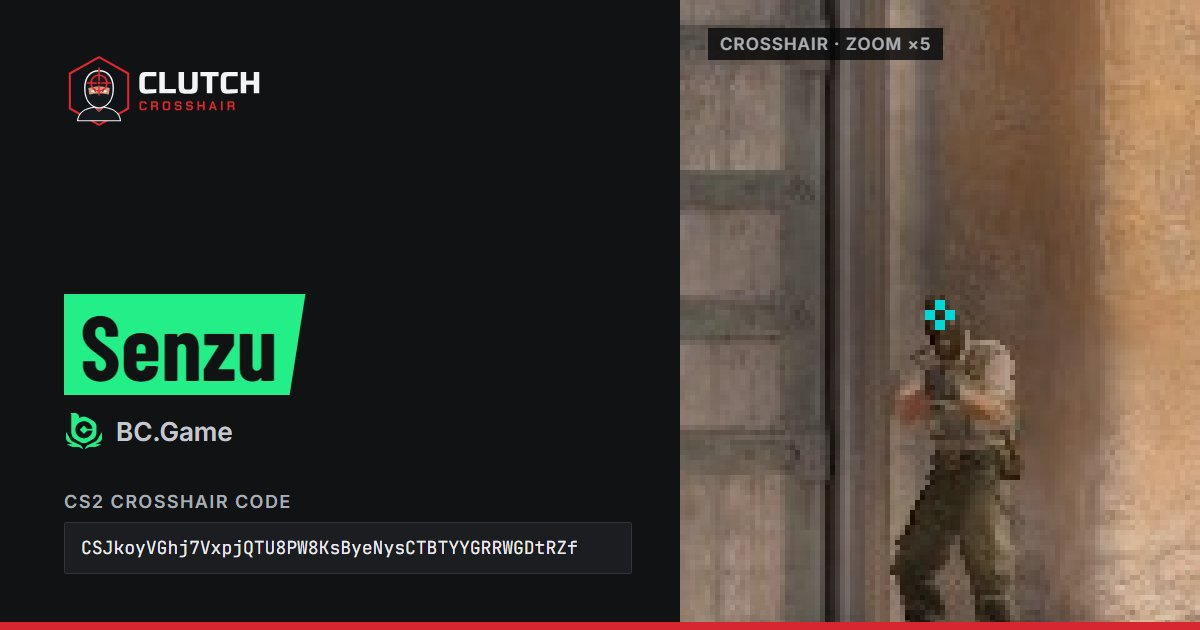
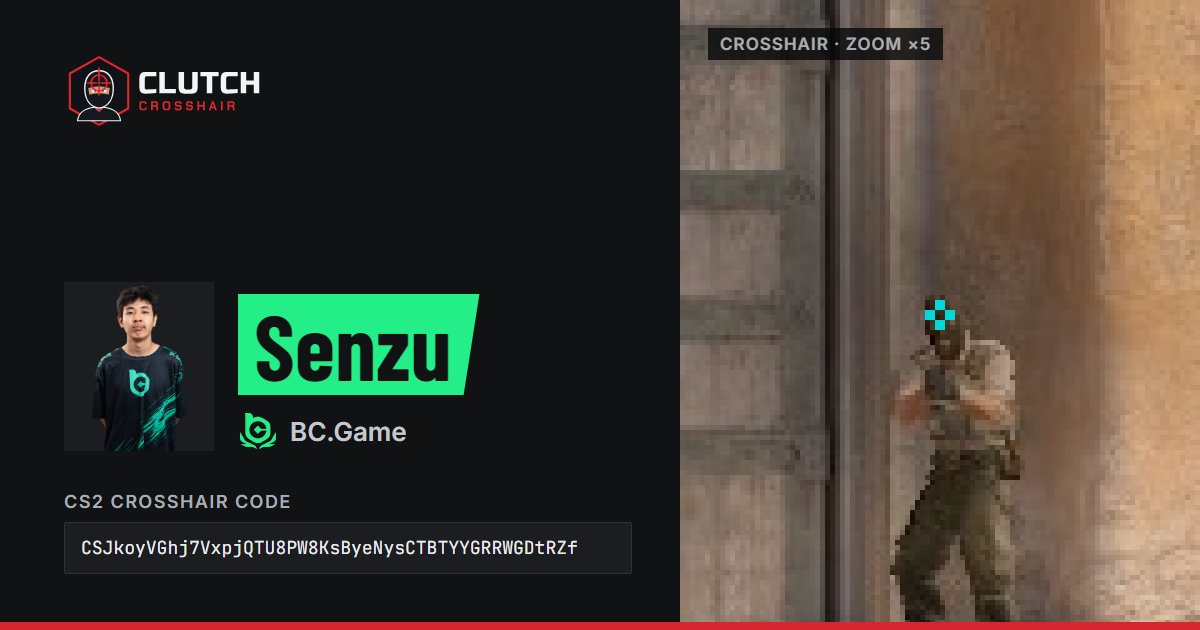
Photo : Senzu

Changed region(s): [[0.0308, 0.4524, 0.4008, 0.7238]]

diff --git a/ru/players/senzu.html b/ru/players/senzu.html
@@ -38,21 +38,21 @@
     <meta property="og:title" content="Прицел Senzu в CS2: код">
     <meta property="og:description" content="Скопируйте код прицела Senzu (BC.Game) для CS2 в один клик: предпросмотр в реальном размере, консольные команды и настройки. Из матча от 22/10/2026.">
     <meta property="og:url" content="https://clutchcrosshair.com/ru/players/senzu">
-    <meta property="og:image" content="https://clutchcrosshair.com/og/senzu.jpg?v=4a5f02dcf4">
+    <meta property="og:image" content="https://clutchcrosshair.com/og/senzu.jpg?v=98729ccd2f">
     <meta property="og:image:width" content="1200">
     <meta property="og:image:height" content="630">
     <meta property="og:image:alt" content="Прицел Senzu в CS2: превью и код">
     <meta name="twitter:card" content="summary_large_image">
     <meta name="twitter:title" content="Прицел Senzu в CS2: код">
     <meta name="twitter:description" content="Скопируйте код прицела Senzu (BC.Game) для CS2 в один клик: предпросмотр в реальном размере, консольные команды и настройки. Из матча от 22/10/2026.">
-    <meta name="twitter:image" content="https://clutchcrosshair.com/og/senzu.jpg?v=4a5f02dcf4">
+    <meta name="twitter:image" content="https://clutchcrosshair.com/og/senzu.jpg?v=98729ccd2f">
     <link rel="preload" href="../../fonts/inter-latin.woff2" as="font" type="font/woff2" crossorigin>
     <link rel="preload" href="../../fonts/barlow-condensed-700-latin.woff2" as="font" type="font/woff2" crossorigin>
     <link rel="stylesheet" href="../../style.min.css?v=681f2d2464">
     <link rel="modulepreload" href="../../crosshair.min.js?v=da13dcace5">
     <link rel="modulepreload" href="../../lib/csgo-sharecode.js">
     <link rel="preload" href="../../preview-bg.webp?v=282ecb7043" as="image" type="image/webp">
-    <script type="application/ld+json">{"@context":"https://schema.org","@graph":[{"@type":"WebPage","@id":"https://clutchcrosshair.com/ru/players/senzu","url":"https://clutchcrosshair.com/ru/players/senzu","name":"Код прицела Senzu в CS2","inLanguage":"ru","isPartOf":{"@id":"https://clutchcrosshair.com/#website"},"about":{"@id":"https://clutchcrosshair.com/ru/players/senzu#person"},"breadcrumb":{"@id":"https://clutchcrosshair.com/ru/players/senzu#breadcrumb"},"dateModified":"2026-10-22"},{"@type":"BreadcrumbList","@id":"https://clutchcrosshair.com/ru/players/senzu#breadcrumb","itemListElement":[{"@type":"ListItem","position":1,"name":"Главная","item":"https://clutchcrosshair.com/ru/"},{"@type":"ListItem","position":2,"name":"Прицел Senzu","item":"https://clutchcrosshair.com/ru/players/senzu"}]},{"@type":"Person","@id":"https://clutchcrosshair.com/ru/players/senzu#person","name":"Senzu","description":"Senzu — профессиональный игрок CS2 в команде BC.Game. Код прицела взят из демо официального матча.","url":"https://clutchcrosshair.com/ru/players/senzu","memberOf":{"@type":"SportsTeam","name":"BC.Game","sport":"Counter-Strike 2"},"sameAs":["https://steamcommunity.com/profiles/76561198920720017"]},{"@type":"FAQPage","@id":"https://clutchcrosshair.com/ru/players/senzu#faq","mainEntity":[{"@type":"Question","name":"Какой код прицела у Senzu в CS2?","acceptedAnswer":{"@type":"Answer","text":"Код прицела Senzu в CS2: CSJkoyVGhj7VxpjQTU8PW8KsByeNysCTBTYYGRRWGDtRZf. Он взят из демо официального матча от 22/10/2026."}},{"@type":"Question","name":"Какие настройки прицела у Senzu?","acceptedAnswer":{"@type":"Answer","text":"Senzu играет с прицелом: очень короткий, голубой, статичный — длина 2 px, толщина 2 px, зазор 1, без обводки и без точки в центре; настроен для высоты экрана 960p."}},{"@type":"Question","name":"У каких про-игроков такой же прицел, как у Senzu?","acceptedAnswer":{"@type":"Answer","text":"У asap точно такой же код прицела CS2, как у Senzu."}}]}]}</script>
+    <script type="application/ld+json">{"@context":"https://schema.org","@graph":[{"@type":"WebPage","@id":"https://clutchcrosshair.com/ru/players/senzu","url":"https://clutchcrosshair.com/ru/players/senzu","name":"Код прицела Senzu в CS2","inLanguage":"ru","isPartOf":{"@id":"https://clutchcrosshair.com/#website"},"about":{"@id":"https://clutchcrosshair.com/ru/players/senzu#person"},"breadcrumb":{"@id":"https://clutchcrosshair.com/ru/players/senzu#breadcrumb"},"dateModified":"2026-10-22","primaryImageOfPage":{"@type":"ImageObject","url":"https://clutchcrosshair.com/photos/senzu.webp"}},{"@type":"BreadcrumbList","@id":"https://clutchcrosshair.com/ru/players/senzu#breadcrumb","itemListElement":[{"@type":"ListItem","position":1,"name":"Главная","item":"https://clutchcrosshair.com/ru/"},{"@type":"ListItem","position":2,"name":"Прицел Senzu","item":"https://clutchcrosshair.com/ru/players/senzu"}]},{"@type":"Person","@id":"https://clutchcrosshair.com/ru/players/senzu#person","name":"Senzu","description":"Senzu — профессиональный игрок CS2 в команде BC.Game. Код прицела взят из демо официального матча.","url":"https://clutchcrosshair.com/ru/players/senzu","memberOf":{"@type":"SportsTeam","name":"BC.Game","sport":"Counter-Strike 2"},"image":"https://clutchcrosshair.com/photos/senzu.webp","sameAs":["https://steamcommunity.com/profiles/76561198920720017"]},{"@type":"FAQPage","@id":"https://clutchcrosshair.com/ru/players/senzu#faq","mainEntity":[{"@type":"Question","name":"Какой код прицела у Senzu в CS2?","acceptedAnswer":{"@type":"Answer","text":"Код прицела Senzu в CS2: CSJkoyVGhj7VxpjQTU8PW8KsByeNysCTBTYYGRRWGDtRZf. Он взят из демо официального матча от 22/10/2026."}},{"@type":"Question","name":"Какие настройки прицела у Senzu?","acceptedAnswer":{"@type":"Answer","text":"Senzu играет с прицелом: очень короткий, голубой, статичный — длина 2 px, толщина 2 px, зазор 1, без обводки и без точки в центре; настроен для высоты экрана 960p."}},{"@type":"Question","name":"У каких про-игроков такой же прицел, как у Senzu?","acceptedAnswer":{"@type":"Answer","text":"У asap точно такой же код прицела CS2, как у Senzu."}}]}]}</script>
     <script src="../../consent.min.js?v=fdcf5763f3" data-legal="../legal" defer></script>
     <script src="../../lang-banner.min.js?v=aec40a5320" defer></script>
 </head>
@@ -92,7 +92,7 @@
         <nav class="breadcrumb" aria-label="Навигационная цепочка"><a href="../" class="crumb-home"><svg class="crumb-icon" viewBox="0 0 24 24" aria-hidden="true"><path d="M12 3 2 11.5h3V21h5.5v-6h3v6H19v-9.5h3L12 3Z"/></svg>Главная</a> › <span>Senzu</span></nav>
 
         <div class="player-head">
-            <div class="player-photo">SE</div>
+            <img class="player-photo" src="../../photos/md/senzu.webp?v=4236bbfd59" alt="Senzu, BC.Game" width="120" height="134" fetchpriority="high" decoding="async">
             <div>
                 <h1>Прицел Senzu в CS2</h1>
                 <p class="player-team"><img class="player-team-logo" src="../../logos/sm/bcgame.webp?v=652558305a" alt="" width="20" height="20">BC.Game</p>

diff --git a/es/players/senzu.html b/es/players/senzu.html
@@ -38,21 +38,21 @@
     <meta property="og:title" content="Código de crosshair de Senzu en CS2">
     <meta property="og:description" content="Copia en un clic el código de crosshair de CS2 de Senzu (BC.Game): vista previa a tamaño real, comandos y ajustes. Partido del 22/10/2026.">
     <meta property="og:url" content="https://clutchcrosshair.com/es/players/senzu">
-    <meta property="og:image" content="https://clutchcrosshair.com/og/senzu.jpg?v=4a5f02dcf4">
+    <meta property="og:image" content="https://clutchcrosshair.com/og/senzu.jpg?v=98729ccd2f">
     <meta property="og:image:width" content="1200">
     <meta property="og:image:height" content="630">
     <meta property="og:image:alt" content="Crosshair de Senzu en CS2: vista previa y código">
     <meta name="twitter:card" content="summary_large_image">
     <meta name="twitter:title" content="Código de crosshair de Senzu en CS2">
     <meta name="twitter:description" content="Copia en un clic el código de crosshair de CS2 de Senzu (BC.Game): vista previa a tamaño real, comandos y ajustes. Partido del 22/10/2026.">
-    <meta name="twitter:image" content="https://clutchcrosshair.com/og/senzu.jpg?v=4a5f02dcf4">
+    <meta name="twitter:image" content="https://clutchcrosshair.com/og/senzu.jpg?v=98729ccd2f">
     <link rel="preload" href="../../fonts/inter-latin.woff2" as="font" type="font/woff2" crossorigin>
     <link rel="preload" href="../../fonts/barlow-condensed-700-latin.woff2" as="font" type="font/woff2" crossorigin>
     <link rel="stylesheet" href="../../style.min.css?v=681f2d2464">
     <link rel="modulepreload" href="../../crosshair.min.js?v=da13dcace5">
     <link rel="modulepreload" href="../../lib/csgo-sharecode.js">
     <link rel="preload" href="../../preview-bg.webp?v=282ecb7043" as="image" type="image/webp">
-    <script type="application/ld+json">{"@context":"https://schema.org","@graph":[{"@type":"WebPage","@id":"https://clutchcrosshair.com/es/players/senzu","url":"https://clutchcrosshair.com/es/players/senzu","name":"Código de crosshair de Senzu en CS2","inLanguage":"es","isPartOf":{"@id":"https://clutchcrosshair.com/#website"},"about":{"@id":"https://clutchcrosshair.com/es/players/senzu#person"},"breadcrumb":{"@id":"https://clutchcrosshair.com/es/players/senzu#breadcrumb"},"dateModified":"2026-10-22"},{"@type":"BreadcrumbList","@id":"https://clutchcrosshair.com/es/players/senzu#breadcrumb","itemListElement":[{"@type":"ListItem","position":1,"name":"Inicio","item":"https://clutchcrosshair.com/es/"},{"@type":"ListItem","position":2,"name":"Crosshair de Senzu","item":"https://clutchcrosshair.com/es/players/senzu"}]},{"@type":"Person","@id":"https://clutchcrosshair.com/es/players/senzu#person","name":"Senzu","description":"Senzu es un jugador profesional de CS2 en BC.Game. Código de crosshair leído de la demo de un partido oficial.","url":"https://clutchcrosshair.com/es/players/senzu","memberOf":{"@type":"SportsTeam","name":"BC.Game","sport":"Counter-Strike 2"},"sameAs":["https://steamcommunity.com/profiles/76561198920720017"]},{"@type":"FAQPage","@id":"https://clutchcrosshair.com/es/players/senzu#faq","mainEntity":[{"@type":"Question","name":"¿Cuál es el código de crosshair de Senzu en CS2?","acceptedAnswer":{"@type":"Answer","text":"El código de crosshair de CS2 de Senzu es CSJkoyVGhj7VxpjQTU8PW8KsByeNysCTBTYYGRRWGDtRZf. Se leyó de la demo de un partido oficial el 22/10/2026."}},{"@type":"Question","name":"¿Qué ajustes de crosshair usa Senzu?","acceptedAnswer":{"@type":"Answer","text":"Senzu usa un crosshair cian muy corto estático: 2 px de largo, 2 px de grosor, una separación de 1, sin contorno y sin punto central, configurado para una altura de pantalla de 960p."}},{"@type":"Question","name":"¿Qué pros usan el mismo crosshair que Senzu?","acceptedAnswer":{"@type":"Answer","text":"asap usa exactamente el mismo código de crosshair de CS2 que Senzu."}}]}]}</script>
+    <script type="application/ld+json">{"@context":"https://schema.org","@graph":[{"@type":"WebPage","@id":"https://clutchcrosshair.com/es/players/senzu","url":"https://clutchcrosshair.com/es/players/senzu","name":"Código de crosshair de Senzu en CS2","inLanguage":"es","isPartOf":{"@id":"https://clutchcrosshair.com/#website"},"about":{"@id":"https://clutchcrosshair.com/es/players/senzu#person"},"breadcrumb":{"@id":"https://clutchcrosshair.com/es/players/senzu#breadcrumb"},"dateModified":"2026-10-22","primaryImageOfPage":{"@type":"ImageObject","url":"https://clutchcrosshair.com/photos/senzu.webp"}},{"@type":"BreadcrumbList","@id":"https://clutchcrosshair.com/es/players/senzu#breadcrumb","itemListElement":[{"@type":"ListItem","position":1,"name":"Inicio","item":"https://clutchcrosshair.com/es/"},{"@type":"ListItem","position":2,"name":"Crosshair de Senzu","item":"https://clutchcrosshair.com/es/players/senzu"}]},{"@type":"Person","@id":"https://clutchcrosshair.com/es/players/senzu#person","name":"Senzu","description":"Senzu es un jugador profesional de CS2 en BC.Game. Código de crosshair leído de la demo de un partido oficial.","url":"https://clutchcrosshair.com/es/players/senzu","memberOf":{"@type":"SportsTeam","name":"BC.Game","sport":"Counter-Strike 2"},"image":"https://clutchcrosshair.com/photos/senzu.webp","sameAs":["https://steamcommunity.com/profiles/76561198920720017"]},{"@type":"FAQPage","@id":"https://clutchcrosshair.com/es/players/senzu#faq","mainEntity":[{"@type":"Question","name":"¿Cuál es el código de crosshair de Senzu en CS2?","acceptedAnswer":{"@type":"Answer","text":"El código de crosshair de CS2 de Senzu es CSJkoyVGhj7VxpjQTU8PW8KsByeNysCTBTYYGRRWGDtRZf. Se leyó de la demo de un partido oficial el 22/10/2026."}},{"@type":"Question","name":"¿Qué ajustes de crosshair usa Senzu?","acceptedAnswer":{"@type":"Answer","text":"Senzu usa un crosshair cian muy corto estático: 2 px de largo, 2 px de grosor, una separación de 1, sin contorno y sin punto central, configurado para una altura de pantalla de 960p."}},{"@type":"Question","name":"¿Qué pros usan el mismo crosshair que Senzu?","acceptedAnswer":{"@type":"Answer","text":"asap usa exactamente el mismo código de crosshair de CS2 que Senzu."}}]}]}</script>
     <script src="../../consent.min.js?v=fdcf5763f3" data-legal="../legal" defer></script>
     <script src="../../lang-banner.min.js?v=aec40a5320" defer></script>
 </head>
@@ -92,7 +92,7 @@
         <nav class="breadcrumb" aria-label="Ruta de navegación"><a href="../" class="crumb-home"><svg class="crumb-icon" viewBox="0 0 24 24" aria-hidden="true"><path d="M12 3 2 11.5h3V21h5.5v-6h3v6H19v-9.5h3L12 3Z"/></svg>Inicio</a> › <span>Senzu</span></nav>
 
         <div class="player-head">
-            <div class="player-photo">SE</div>
+            <img class="player-photo" src="../../photos/md/senzu.webp?v=4236bbfd59" alt="Senzu, BC.Game" width="120" height="134" fetchpriority="high" decoding="async">
             <div>
                 <h1>Crosshair de Senzu en CS2</h1>
                 <p class="player-team"><img class="player-team-logo" src="../../logos/sm/bcgame.webp?v=652558305a" alt="" width="20" height="20">BC.Game</p>

diff --git a/tr/players/senzu.html b/tr/players/senzu.html
@@ -38,21 +38,21 @@
     <meta property="og:title" content="Senzu CS2 Crosshair Kodu">
     <meta property="og:description" content="Senzu (BC.Game) CS2 crosshair kodunu tek tıkla kopyala: gerçek boyutlu önizleme, konsol komutları ve ayarlar. 22/10/2026 tarihli maçtan.">
     <meta property="og:url" content="https://clutchcrosshair.com/tr/players/senzu">
-    <meta property="og:image" content="https://clutchcrosshair.com/og/senzu.jpg?v=4a5f02dcf4">
+    <meta property="og:image" content="https://clutchcrosshair.com/og/senzu.jpg?v=98729ccd2f">
     <meta property="og:image:width" content="1200">
     <meta property="og:image:height" content="630">
     <meta property="og:image:alt" content="Senzu CS2 crosshair: önizleme ve kod">
     <meta name="twitter:card" content="summary_large_image">
     <meta name="twitter:title" content="Senzu CS2 Crosshair Kodu">
     <meta name="twitter:description" content="Senzu (BC.Game) CS2 crosshair kodunu tek tıkla kopyala: gerçek boyutlu önizleme, konsol komutları ve ayarlar. 22/10/2026 tarihli maçtan.">
-    <meta name="twitter:image" content="https://clutchcrosshair.com/og/senzu.jpg?v=4a5f02dcf4">
+    <meta name="twitter:image" content="https://clutchcrosshair.com/og/senzu.jpg?v=98729ccd2f">
     <link rel="preload" href="../../fonts/inter-latin.woff2" as="font" type="font/woff2" crossorigin>
     <link rel="preload" href="../../fonts/barlow-condensed-700-latin.woff2" as="font" type="font/woff2" crossorigin>
     <link rel="stylesheet" href="../../style.min.css?v=681f2d2464">
     <link rel="modulepreload" href="../../crosshair.min.js?v=da13dcace5">
     <link rel="modulepreload" href="../../lib/csgo-sharecode.js">
     <link rel="preload" href="../../preview-bg.webp?v=282ecb7043" as="image" type="image/webp">
-    <script type="application/ld+json">{"@context":"https://schema.org","@graph":[{"@type":"WebPage","@id":"https://clutchcrosshair.com/tr/players/senzu","url":"https://clutchcrosshair.com/tr/players/senzu","name":"Senzu CS2 Crosshair Kodu","inLanguage":"tr","isPartOf":{"@id":"https://clutchcrosshair.com/#website"},"about":{"@id":"https://clutchcrosshair.com/tr/players/senzu#person"},"breadcrumb":{"@id":"https://clutchcrosshair.com/tr/players/senzu#breadcrumb"},"dateModified":"2026-10-22"},{"@type":"BreadcrumbList","@id":"https://clutchcrosshair.com/tr/players/senzu#breadcrumb","itemListElement":[{"@type":"ListItem","position":1,"name":"Ana sayfa","item":"https://clutchcrosshair.com/tr/"},{"@type":"ListItem","position":2,"name":"Senzu crosshair","item":"https://clutchcrosshair.com/tr/players/senzu"}]},{"@type":"Person","@id":"https://clutchcrosshair.com/tr/players/senzu#person","name":"Senzu","description":"Senzu, BC.Game takımında oynayan profesyonel bir CS2 oyuncusu. CS2 crosshair kodu resmi bir maç demosundan alındı.","url":"https://clutchcrosshair.com/tr/players/senzu","memberOf":{"@type":"SportsTeam","name":"BC.Game","sport":"Counter-Strike 2"},"sameAs":["https://steamcommunity.com/profiles/76561198920720017"]},{"@type":"FAQPage","@id":"https://clutchcrosshair.com/tr/players/senzu#faq","mainEntity":[{"@type":"Question","name":"Senzu CS2 crosshair kodu nedir?","acceptedAnswer":{"@type":"Answer","text":"Senzu adlı oyuncunun CS2 crosshair kodu: CSJkoyVGhj7VxpjQTU8PW8KsByeNysCTBTYYGRRWGDtRZf. 22/10/2026 tarihli resmi bir maç demosundan alındı."}},{"@type":"Question","name":"Senzu hangi crosshair ayarlarını kullanıyor?","acceptedAnswer":{"@type":"Answer","text":"Senzu, çok kısa camgöbeği sabit bir crosshair kullanıyor: 2 px uzunluk, 2 px kalınlık, 1 boşluk, dış çizgi yok ve orta nokta yok; 960p ekran yüksekliğine göre ayarlanmış."}},{"@type":"Question","name":"Hangi prolar Senzu ile aynı crosshair'ı kullanıyor?","acceptedAnswer":{"@type":"Answer","text":"asap, Senzu ile birebir aynı CS2 crosshair kodunu kullanıyor."}}]}]}</script>
+    <script type="application/ld+json">{"@context":"https://schema.org","@graph":[{"@type":"WebPage","@id":"https://clutchcrosshair.com/tr/players/senzu","url":"https://clutchcrosshair.com/tr/players/senzu","name":"Senzu CS2 Crosshair Kodu","inLanguage":"tr","isPartOf":{"@id":"https://clutchcrosshair.com/#website"},"about":{"@id":"https://clutchcrosshair.com/tr/players/senzu#person"},"breadcrumb":{"@id":"https://clutchcrosshair.com/tr/players/senzu#breadcrumb"},"dateModified":"2026-10-22","primaryImageOfPage":{"@type":"ImageObject","url":"https://clutchcrosshair.com/photos/senzu.webp"}},{"@type":"BreadcrumbList","@id":"https://clutchcrosshair.com/tr/players/senzu#breadcrumb","itemListElement":[{"@type":"ListItem","position":1,"name":"Ana sayfa","item":"https://clutchcrosshair.com/tr/"},{"@type":"ListItem","position":2,"name":"Senzu crosshair","item":"https://clutchcrosshair.com/tr/players/senzu"}]},{"@type":"Person","@id":"https://clutchcrosshair.com/tr/players/senzu#person","name":"Senzu","description":"Senzu, BC.Game takımında oynayan profesyonel bir CS2 oyuncusu. CS2 crosshair kodu resmi bir maç demosundan alındı.","url":"https://clutchcrosshair.com/tr/players/senzu","memberOf":{"@type":"SportsTeam","name":"BC.Game","sport":"Counter-Strike 2"},"image":"https://clutchcrosshair.com/photos/senzu.webp","sameAs":["https://steamcommunity.com/profiles/76561198920720017"]},{"@type":"FAQPage","@id":"https://clutchcrosshair.com/tr/players/senzu#faq","mainEntity":[{"@type":"Question","name":"Senzu CS2 crosshair kodu nedir?","acceptedAnswer":{"@type":"Answer","text":"Senzu adlı oyuncunun CS2 crosshair kodu: CSJkoyVGhj7VxpjQTU8PW8KsByeNysCTBTYYGRRWGDtRZf. 22/10/2026 tarihli resmi bir maç demosundan alındı."}},{"@type":"Question","name":"Senzu hangi crosshair ayarlarını kullanıyor?","acceptedAnswer":{"@type":"Answer","text":"Senzu, çok kısa camgöbeği sabit bir crosshair kullanıyor: 2 px uzunluk, 2 px kalınlık, 1 boşluk, dış çizgi yok ve orta nokta yok; 960p ekran yüksekliğine göre ayarlanmış."}},{"@type":"Question","name":"Hangi prolar Senzu ile aynı crosshair'ı kullanıyor?","acceptedAnswer":{"@type":"Answer","text":"asap, Senzu ile birebir aynı CS2 crosshair kodunu kullanıyor."}}]}]}</script>
     <script src="../../consent.min.js?v=fdcf5763f3" data-legal="../legal" defer></script>
     <script src="../../lang-banner.min.js?v=aec40a5320" defer></script>
 </head>
@@ -92,7 +92,7 @@
         <nav class="breadcrumb" aria-label="Sayfa yolu"><a href="../" class="crumb-home"><svg class="crumb-icon" viewBox="0 0 24 24" aria-hidden="true"><path d="M12 3 2 11.5h3V21h5.5v-6h3v6H19v-9.5h3L12 3Z"/></svg>Ana sayfa</a> › <span>Senzu</span></nav>
 
         <div class="player-head">
-            <div class="player-photo">SE</div>
+            <img class="player-photo" src="../../photos/md/senzu.webp?v=4236bbfd59" alt="Senzu, BC.Game" width="120" height="134" fetchpriority="high" decoding="async">
             <div>
                 <h1>Senzu CS2 Crosshair</h1>
                 <p class="player-team"><img class="player-team-logo" src="../../logos/sm/bcgame.webp?v=652558305a" alt="" width="20" height="20">BC.Game</p>

diff --git a/fr/players/senzu.html b/fr/players/senzu.html
@@ -38,21 +38,21 @@
     <meta property="og:title" content="Code crosshair CS2 de Senzu">
     <meta property="og:description" content="Copie le code crosshair CS2 de Senzu (BC.Game) en un clic : aperçu taille réelle, commandes console et réglages. Lu dans un match du 22/10/2026.">
     <meta property="og:url" content="https://clutchcrosshair.com/fr/players/senzu">
-    <meta property="og:image" content="https://clutchcrosshair.com/og/senzu.jpg?v=4a5f02dcf4">
+    <meta property="og:image" content="https://clutchcrosshair.com/og/senzu.jpg?v=98729ccd2f">
     <meta property="og:image:width" content="1200">
     <meta property="og:image:height" content="630">
     <meta property="og:image:alt" content="Crosshair CS2 de Senzu : aperçu et code">
     <meta name="twitter:card" content="summary_large_image">
     <meta name="twitter:title" content="Code crosshair CS2 de Senzu">
     <meta name="twitter:description" content="Copie le code crosshair CS2 de Senzu (BC.Game) en un clic : aperçu taille réelle, commandes console et réglages. Lu dans un match du 22/10/2026.">
-    <meta name="twitter:image" content="https://clutchcrosshair.com/og/senzu.jpg?v=4a5f02dcf4">
+    <meta name="twitter:image" content="https://clutchcrosshair.com/og/senzu.jpg?v=98729ccd2f">
     <link rel="preload" href="../../fonts/inter-latin.woff2" as="font" type="font/woff2" crossorigin>
     <link rel="preload" href="../../fonts/barlow-condensed-700-latin.woff2" as="font" type="font/woff2" crossorigin>
     <link rel="stylesheet" href="../../style.min.css?v=681f2d2464">
     <link rel="modulepreload" href="../../crosshair.min.js?v=da13dcace5">
     <link rel="modulepreload" href="../../lib/csgo-sharecode.js">
     <link rel="preload" href="../../preview-bg.webp?v=282ecb7043" as="image" type="image/webp">
-    <script type="application/ld+json">{"@context":"https://schema.org","@graph":[{"@type":"WebPage","@id":"https://clutchcrosshair.com/fr/players/senzu","url":"https://clutchcrosshair.com/fr/players/senzu","name":"Code crosshair CS2 de Senzu","inLanguage":"fr","isPartOf":{"@id":"https://clutchcrosshair.com/#website"},"about":{"@id":"https://clutchcrosshair.com/fr/players/senzu#person"},"breadcrumb":{"@id":"https://clutchcrosshair.com/fr/players/senzu#breadcrumb"},"dateModified":"2026-10-22"},{"@type":"BreadcrumbList","@id":"https://clutchcrosshair.com/fr/players/senzu#breadcrumb","itemListElement":[{"@type":"ListItem","position":1,"name":"Accueil","item":"https://clutchcrosshair.com/fr/"},{"@type":"ListItem","position":2,"name":"Crosshair de Senzu","item":"https://clutchcrosshair.com/fr/players/senzu"}]},{"@type":"Person","@id":"https://clutchcrosshair.com/fr/players/senzu#person","name":"Senzu","description":"Senzu est un joueur pro CS2 de BC.Game. Code crosshair CS2 lu dans la démo d'un match officiel.","url":"https://clutchcrosshair.com/fr/players/senzu","memberOf":{"@type":"SportsTeam","name":"BC.Game","sport":"Counter-Strike 2"},"sameAs":["https://steamcommunity.com/profiles/76561198920720017"]},{"@type":"FAQPage","@id":"https://clutchcrosshair.com/fr/players/senzu#faq","mainEntity":[{"@type":"Question","name":"Quel est le code crosshair CS2 de Senzu ?","acceptedAnswer":{"@type":"Answer","text":"Le code crosshair CS2 de Senzu est CSJkoyVGhj7VxpjQTU8PW8KsByeNysCTBTYYGRRWGDtRZf. Il a été lu dans la démo d'un match officiel du 22/10/2026."}},{"@type":"Question","name":"Quels réglages de crosshair utilise Senzu ?","acceptedAnswer":{"@type":"Answer","text":"Senzu utilise un crosshair cyan très court statique : 2 px de long, 2 px d'épaisseur, un écart de 1, pas de contour et pas de point central, réglé pour une hauteur d'écran de 960p."}},{"@type":"Question","name":"Quels pros utilisent le même crosshair que Senzu ?","acceptedAnswer":{"@type":"Answer","text":"asap utilise exactement le même code crosshair CS2 que Senzu."}}]}]}</script>
+    <script type="application/ld+json">{"@context":"https://schema.org","@graph":[{"@type":"WebPage","@id":"https://clutchcrosshair.com/fr/players/senzu","url":"https://clutchcrosshair.com/fr/players/senzu","name":"Code crosshair CS2 de Senzu","inLanguage":"fr","isPartOf":{"@id":"https://clutchcrosshair.com/#website"},"about":{"@id":"https://clutchcrosshair.com/fr/players/senzu#person"},"breadcrumb":{"@id":"https://clutchcrosshair.com/fr/players/senzu#breadcrumb"},"dateModified":"2026-10-22","primaryImageOfPage":{"@type":"ImageObject","url":"https://clutchcrosshair.com/photos/senzu.webp"}},{"@type":"BreadcrumbList","@id":"https://clutchcrosshair.com/fr/players/senzu#breadcrumb","itemListElement":[{"@type":"ListItem","position":1,"name":"Accueil","item":"https://clutchcrosshair.com/fr/"},{"@type":"ListItem","position":2,"name":"Crosshair de Senzu","item":"https://clutchcrosshair.com/fr/players/senzu"}]},{"@type":"Person","@id":"https://clutchcrosshair.com/fr/players/senzu#person","name":"Senzu","description":"Senzu est un joueur pro CS2 de BC.Game. Code crosshair CS2 lu dans la démo d'un match officiel.","url":"https://clutchcrosshair.com/fr/players/senzu","memberOf":{"@type":"SportsTeam","name":"BC.Game","sport":"Counter-Strike 2"},"image":"https://clutchcrosshair.com/photos/senzu.webp","sameAs":["https://steamcommunity.com/profiles/76561198920720017"]},{"@type":"FAQPage","@id":"https://clutchcrosshair.com/fr/players/senzu#faq","mainEntity":[{"@type":"Question","name":"Quel est le code crosshair CS2 de Senzu ?","acceptedAnswer":{"@type":"Answer","text":"Le code crosshair CS2 de Senzu est CSJkoyVGhj7VxpjQTU8PW8KsByeNysCTBTYYGRRWGDtRZf. Il a été lu dans la démo d'un match officiel du 22/10/2026."}},{"@type":"Question","name":"Quels réglages de crosshair utilise Senzu ?","acceptedAnswer":{"@type":"Answer","text":"Senzu utilise un crosshair cyan très court statique : 2 px de long, 2 px d'épaisseur, un écart de 1, pas de contour et pas de point central, réglé pour une hauteur d'écran de 960p."}},{"@type":"Question","name":"Quels pros utilisent le même crosshair que Senzu ?","acceptedAnswer":{"@type":"Answer","text":"asap utilise exactement le même code crosshair CS2 que Senzu."}}]}]}</script>
     <script src="../../consent.min.js?v=fdcf5763f3" data-legal="../legal" defer></script>
     <script src="../../lang-banner.min.js?v=aec40a5320" defer></script>
 </head>
@@ -92,7 +92,7 @@
         <nav class="breadcrumb" aria-label="Fil d'Ariane"><a href="../" class="crumb-home"><svg class="crumb-icon" viewBox="0 0 24 24" aria-hidden="true"><path d="M12 3 2 11.5h3V21h5.5v-6h3v6H19v-9.5h3L12 3Z"/></svg>Accueil</a> › <span>Senzu</span></nav>
 
         <div class="player-head">
-            <div class="player-photo">SE</div>
+            <img class="player-photo" src="../../photos/md/senzu.webp?v=4236bbfd59" alt="Senzu, BC.Game" width="120" height="134" fetchpriority="high" decoding="async">
             <div>
                 <h1>Crosshair CS2 de Senzu</h1>
                 <p class="player-team"><img class="player-team-logo" src="../../logos/sm/bcgame.webp?v=652558305a" alt="" width="20" height="20">BC.Game</p>

diff --git a/players/senzu.html b/players/senzu.html
@@ -37,21 +37,21 @@
     <meta property="og:title" content="Senzu CS2 Crosshair Code">
     <meta property="og:description" content="Copy Senzu&#39;s CS2 crosshair code (BC.Game) in one click: real-size preview, console commands and settings. From a match on 22/10/2026.">
     <meta property="og:url" content="https://clutchcrosshair.com/players/senzu">
-    <meta property="og:image" content="https://clutchcrosshair.com/og/senzu.jpg?v=4a5f02dcf4">
+    <meta property="og:image" content="https://clutchcrosshair.com/og/senzu.jpg?v=98729ccd2f">
     <meta property="og:image:width" content="1200">
     <meta property="og:image:height" content="630">
     <meta property="og:image:alt" content="Senzu CS2 crosshair: preview and share code">
     <meta name="twitter:card" content="summary_large_image">
     <meta name="twitter:title" content="Senzu CS2 Crosshair Code">
     <meta name="twitter:description" content="Copy Senzu&#39;s CS2 crosshair code (BC.Game) in one click: real-size preview, console commands and settings. From a match on 22/10/2026.">
-    <meta name="twitter:image" content="https://clutchcrosshair.com/og/senzu.jpg?v=4a5f02dcf4">
+    <meta name="twitter:image" content="https://clutchcrosshair.com/og/senzu.jpg?v=98729ccd2f">
     <link rel="preload" href="../fonts/inter-latin.woff2" as="font" type="font/woff2" crossorigin>
     <link rel="preload" href="../fonts/barlow-condensed-700-latin.woff2" as="font" type="font/woff2" crossorigin>
     <link rel="stylesheet" href="../style.min.css?v=681f2d2464">
     <link rel="modulepreload" href="../crosshair.min.js?v=da13dcace5">
     <link rel="modulepreload" href="../lib/csgo-sharecode.js">
     <link rel="preload" href="../preview-bg.webp?v=282ecb7043" as="image" type="image/webp">
-    <script type="application/ld+json">{"@context":"https://schema.org","@graph":[{"@type":"WebPage","@id":"https://clutchcrosshair.com/players/senzu","url":"https://clutchcrosshair.com/players/senzu","name":"Senzu CS2 Crosshair Code","inLanguage":"en","isPartOf":{"@id":"https://clutchcrosshair.com/#website"},"about":{"@id":"https://clutchcrosshair.com/players/senzu#person"},"breadcrumb":{"@id":"https://clutchcrosshair.com/players/senzu#breadcrumb"},"dateModified":"2026-10-22"},{"@type":"BreadcrumbList","@id":"https://clutchcrosshair.com/players/senzu#breadcrumb","itemListElement":[{"@type":"ListItem","position":1,"name":"Home","item":"https://clutchcrosshair.com/"},{"@type":"ListItem","position":2,"name":"Senzu crosshair","item":"https://clutchcrosshair.com/players/senzu"}]},{"@type":"Person","@id":"https://clutchcrosshair.com/players/senzu#person","name":"Senzu","description":"Senzu is a CS2 pro player for BC.Game. CS2 crosshair code read from an official match demo.","url":"https://clutchcrosshair.com/players/senzu","memberOf":{"@type":"SportsTeam","name":"BC.Game","sport":"Counter-Strike 2"},"sameAs":["https://steamcommunity.com/profiles/76561198920720017"]},{"@type":"FAQPage","@id":"https://clutchcrosshair.com/players/senzu#faq","mainEntity":[{"@type":"Question","name":"What is Senzu's CS2 crosshair code?","acceptedAnswer":{"@type":"Answer","text":"Senzu's CS2 crosshair code is CSJkoyVGhj7VxpjQTU8PW8KsByeNysCTBTYYGRRWGDtRZf. It was read from an official match demo on 22/10/2026."}},{"@type":"Question","name":"What crosshair settings does Senzu use?","acceptedAnswer":{"@type":"Answer","text":"Senzu uses a very short cyan static crosshair: 2 px long, 2 px thick, a gap of 1, no outline and no center dot, set for a 960p screen height."}},{"@type":"Question","name":"Which pros use the same crosshair as Senzu?","acceptedAnswer":{"@type":"Answer","text":"asap uses exactly the same CS2 crosshair code as Senzu."}}]}]}</script>
+    <script type="application/ld+json">{"@context":"https://schema.org","@graph":[{"@type":"WebPage","@id":"https://clutchcrosshair.com/players/senzu","url":"https://clutchcrosshair.com/players/senzu","name":"Senzu CS2 Crosshair Code","inLanguage":"en","isPartOf":{"@id":"https://clutchcrosshair.com/#website"},"about":{"@id":"https://clutchcrosshair.com/players/senzu#person"},"breadcrumb":{"@id":"https://clutchcrosshair.com/players/senzu#breadcrumb"},"dateModified":"2026-10-22","primaryImageOfPage":{"@type":"ImageObject","url":"https://clutchcrosshair.com/photos/senzu.webp"}},{"@type":"BreadcrumbList","@id":"https://clutchcrosshair.com/players/senzu#breadcrumb","itemListElement":[{"@type":"ListItem","position":1,"name":"Home","item":"https://clutchcrosshair.com/"},{"@type":"ListItem","position":2,"name":"Senzu crosshair","item":"https://clutchcrosshair.com/players/senzu"}]},{"@type":"Person","@id":"https://clutchcrosshair.com/players/senzu#person","name":"Senzu","description":"Senzu is a CS2 pro player for BC.Game. CS2 crosshair code read from an official match demo.","url":"https://clutchcrosshair.com/players/senzu","memberOf":{"@type":"SportsTeam","name":"BC.Game","sport":"Counter-Strike 2"},"image":"https://clutchcrosshair.com/photos/senzu.webp","sameAs":["https://steamcommunity.com/profiles/76561198920720017"]},{"@type":"FAQPage","@id":"https://clutchcrosshair.com/players/senzu#faq","mainEntity":[{"@type":"Question","name":"What is Senzu's CS2 crosshair code?","acceptedAnswer":{"@type":"Answer","text":"Senzu's CS2 crosshair code is CSJkoyVGhj7VxpjQTU8PW8KsByeNysCTBTYYGRRWGDtRZf. It was read from an official match demo on 22/10/2026."}},{"@type":"Question","name":"What crosshair settings does Senzu use?","acceptedAnswer":{"@type":"Answer","text":"Senzu uses a very short cyan static crosshair: 2 px long, 2 px thick, a gap of 1, no outline and no center dot, set for a 960p screen height."}},{"@type":"Question","name":"Which pros use the same crosshair as Senzu?","acceptedAnswer":{"@type":"Answer","text":"asap uses exactly the same CS2 crosshair code as Senzu."}}]}]}</script>
     <script src="../consent.min.js?v=fdcf5763f3" data-legal="../legal" defer></script>
     <script src="../lang-banner.min.js?v=aec40a5320" defer></script>
 </head>
@@ -91,7 +91,7 @@
         <nav class="breadcrumb" aria-label="Breadcrumb"><a href="../" class="crumb-home"><svg class="crumb-icon" viewBox="0 0 24 24" aria-hidden="true"><path d="M12 3 2 11.5h3V21h5.5v-6h3v6H19v-9.5h3L12 3Z"/></svg>Home</a> › <span>Senzu</span></nav>
 
         <div class="player-head">
-            <div class="player-photo">SE</div>
+            <img class="player-photo" src="../photos/md/senzu.webp?v=4236bbfd59" alt="Senzu, BC.Game" width="120" height="134" fetchpriority="high" decoding="async">
             <div>
                 <h1>Senzu CS2 Crosshair</h1>
                 <p class="player-team"><img class="player-team-logo" src="../logos/sm/bcgame.webp?v=652558305a" alt="" width="20" height="20">BC.Game</p>

diff --git a/es/index.html b/es/index.html
@@ -1919,10 +1919,10 @@
                 </div>
             </div>
         </article>
-                        <article class="card" data-slug="senzu" data-team="BC.Game" data-name="senzu" data-updated="20261022" data-date="22/10/2026" data-twins="asap:asap" style="--team: #23EE88; --on-team: #111214">
+                        <article class="card" data-slug="senzu" data-team="BC.Game" data-name="senzu" data-updated="20261022" data-date="22/10/2026" data-photo="../photos/md/senzu.webp?v=4236bbfd59" data-twins="asap:asap" style="--team: #23EE88; --on-team: #111214">
             <div class="card-top">
                 <h3><a href="players/senzu">Senzu</a></h3>
-                <div class="card-photo">SE</div>
+                <img class="card-photo" src="../photos/sm/senzu.webp?v=11d393b8bc" alt="Senzu" width="76" height="86" loading="lazy" decoding="async" data-initials="SE" onerror="photoFallback(this)">
             </div>
             <div class="card-meta">
                 <span class="team"><span class="team-badge" style="--c: #23EE88"><img src="../logos/sm/bcgame.webp?v=652558305a" alt="" width="16" height="16" decoding="async" onerror="this.remove()"></span>BC.Game</span>

diff --git a/fr/index.html b/fr/index.html
@@ -1919,10 +1919,10 @@
                 </div>
             </div>
         </article>
-                        <article class="card" data-slug="senzu" data-team="BC.Game" data-name="senzu" data-updated="20261022" data-date="22/10/2026" data-twins="asap:asap" style="--team: #23EE88; --on-team: #111214">
+                        <article class="card" data-slug="senzu" data-team="BC.Game" data-name="senzu" data-updated="20261022" data-date="22/10/2026" data-photo="../photos/md/senzu.webp?v=4236bbfd59" data-twins="asap:asap" style="--team: #23EE88; --on-team: #111214">
             <div class="card-top">
                 <h3><a href="players/senzu">Senzu</a></h3>
-                <div class="card-photo">SE</div>
+                <img class="card-photo" src="../photos/sm/senzu.webp?v=11d393b8bc" alt="Senzu" width="76" height="86" loading="lazy" decoding="async" data-initials="SE" onerror="photoFallback(this)">
             </div>
             <div class="card-meta">
                 <span class="team"><span class="team-badge" style="--c: #23EE88"><img src="../logos/sm/bcgame.webp?v=652558305a" alt="" width="16" height="16" decoding="async" onerror="this.remove()"></span>BC.Game</span>

diff --git a/ru/index.html b/ru/index.html
@@ -1919,10 +1919,10 @@
                 </div>
             </div>
         </article>
-                        <article class="card" data-slug="senzu" data-team="BC.Game" data-name="senzu" data-updated="20261022" data-date="22/10/2026" data-twins="asap:asap" style="--team: #23EE88; --on-team: #111214">
+                        <article class="card" data-slug="senzu" data-team="BC.Game" data-name="senzu" data-updated="20261022" data-date="22/10/2026" data-photo="../photos/md/senzu.webp?v=4236bbfd59" data-twins="asap:asap" style="--team: #23EE88; --on-team: #111214">
             <div class="card-top">
                 <h3><a href="players/senzu">Senzu</a></h3>
-                <div class="card-photo">SE</div>
+                <img class="card-photo" src="../photos/sm/senzu.webp?v=11d393b8bc" alt="Senzu" width="76" height="86" loading="lazy" decoding="async" data-initials="SE" onerror="photoFallback(this)">
             </div>
             <div class="card-meta">
                 <span class="team"><span class="team-badge" style="--c: #23EE88"><img src="../logos/sm/bcgame.webp?v=652558305a" alt="" width="16" height="16" decoding="async" onerror="this.remove()"></span>BC.Game</span>

diff --git a/tr/index.html b/tr/index.html
@@ -1919,10 +1919,10 @@
                 </div>
             </div>
         </article>
-                        <article class="card" data-slug="senzu" data-team="BC.Game" data-name="senzu" data-updated="20261022" data-date="22/10/2026" data-twins="asap:asap" style="--team: #23EE88; --on-team: #111214">
+                        <article class="card" data-slug="senzu" data-team="BC.Game" data-name="senzu" data-updated="20261022" data-date="22/10/2026" data-photo="../photos/md/senzu.webp?v=4236bbfd59" data-twins="asap:asap" style="--team: #23EE88; --on-team: #111214">
             <div class="card-top">
                 <h3><a href="players/senzu">Senzu</a></h3>
-                <div class="card-photo">SE</div>
+                <img class="card-photo" src="../photos/sm/senzu.webp?v=11d393b8bc" alt="Senzu" width="76" height="86" loading="lazy" decoding="async" data-initials="SE" onerror="photoFallback(this)">
             </div>
             <div class="card-meta">
                 <span class="team"><span class="team-badge" style="--c: #23EE88"><img src="../logos/sm/bcgame.webp?v=652558305a" alt="" width="16" height="16" decoding="async" onerror="this.remove()"></span>BC.Game</span>

diff --git a/index.html b/index.html
@@ -1918,10 +1918,10 @@
                 </div>
             </div>
         </article>
-                        <article class="card" data-slug="senzu" data-team="BC.Game" data-name="senzu" data-updated="20261022" data-date="22/10/2026" data-twins="asap:asap" style="--team: #23EE88; --on-team: #111214">
+                        <article class="card" data-slug="senzu" data-team="BC.Game" data-name="senzu" data-updated="20261022" data-date="22/10/2026" data-photo="photos/md/senzu.webp?v=4236bbfd59" data-twins="asap:asap" style="--team: #23EE88; --on-team: #111214">
             <div class="card-top">
                 <h3><a href="players/senzu">Senzu</a></h3>
-                <div class="card-photo">SE</div>
+                <img class="card-photo" src="photos/sm/senzu.webp?v=11d393b8bc" alt="Senzu" width="76" height="86" loading="lazy" decoding="async" data-initials="SE" onerror="photoFallback(this)">
             </div>
             <div class="card-meta">
                 <span class="team"><span class="team-badge" style="--c: #23EE88"><img src="logos/sm/bcgame.webp?v=652558305a" alt="" width="16" height="16" decoding="async" onerror="this.remove()"></span>BC.Game</span>
